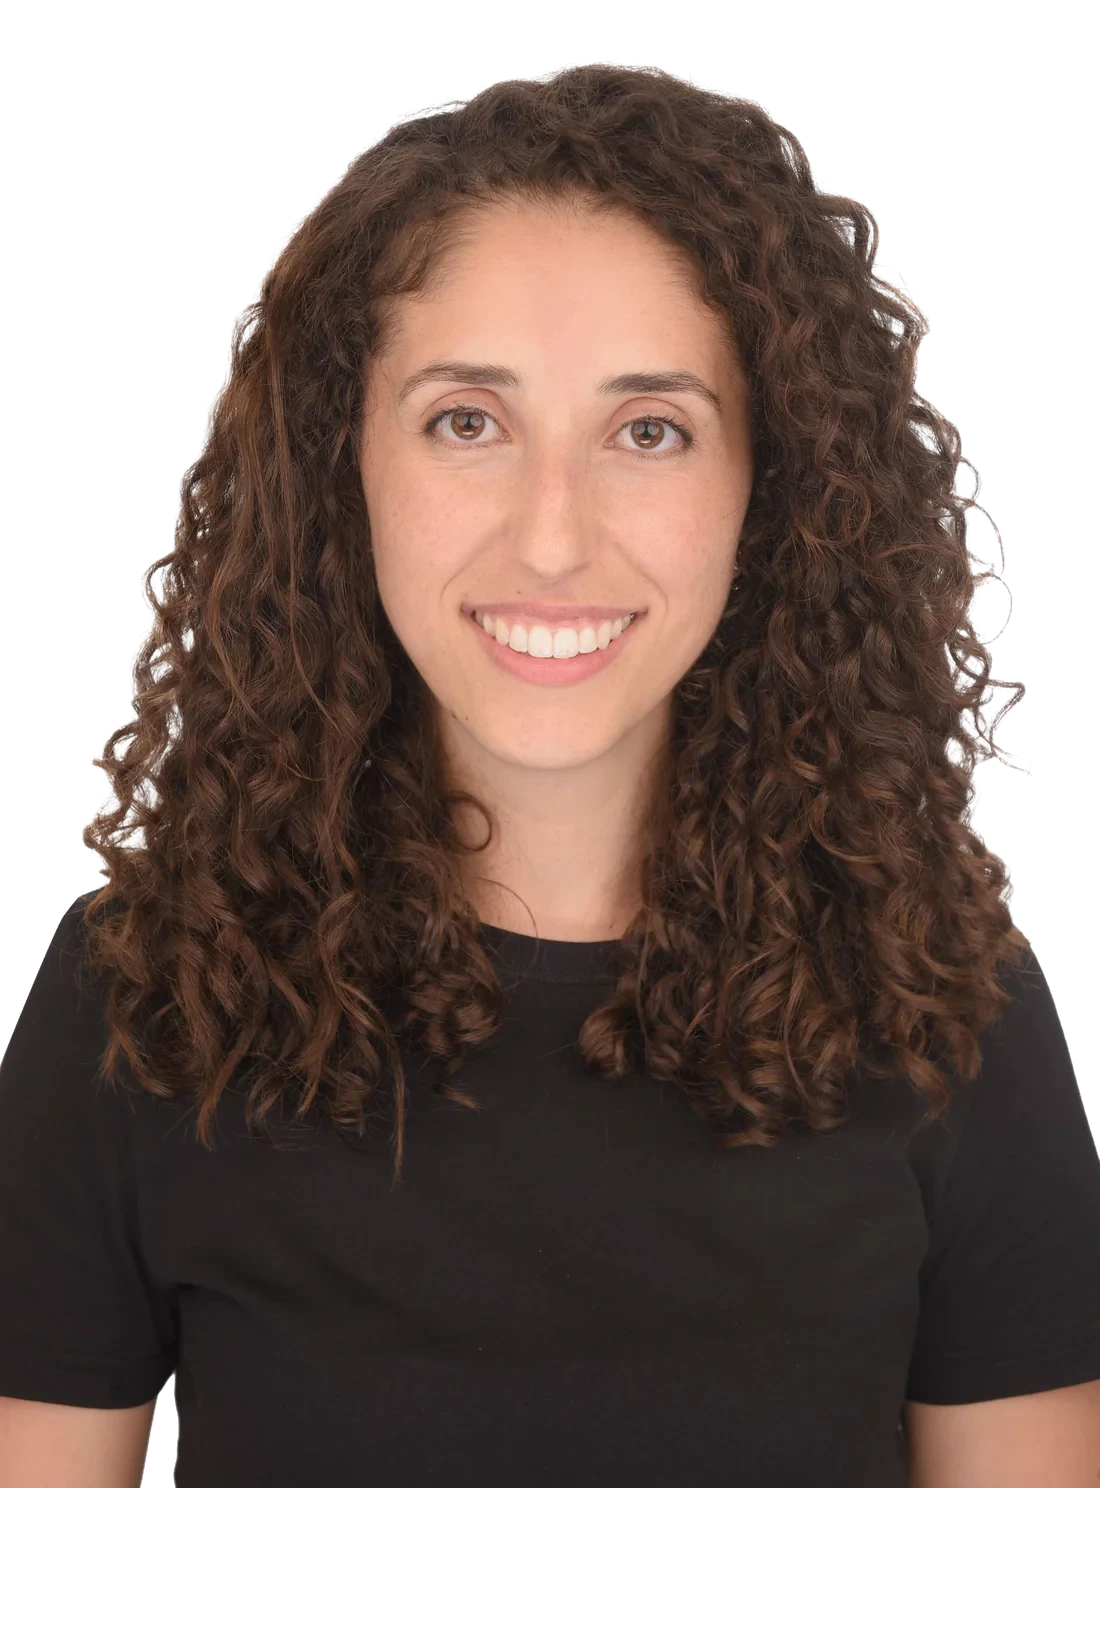
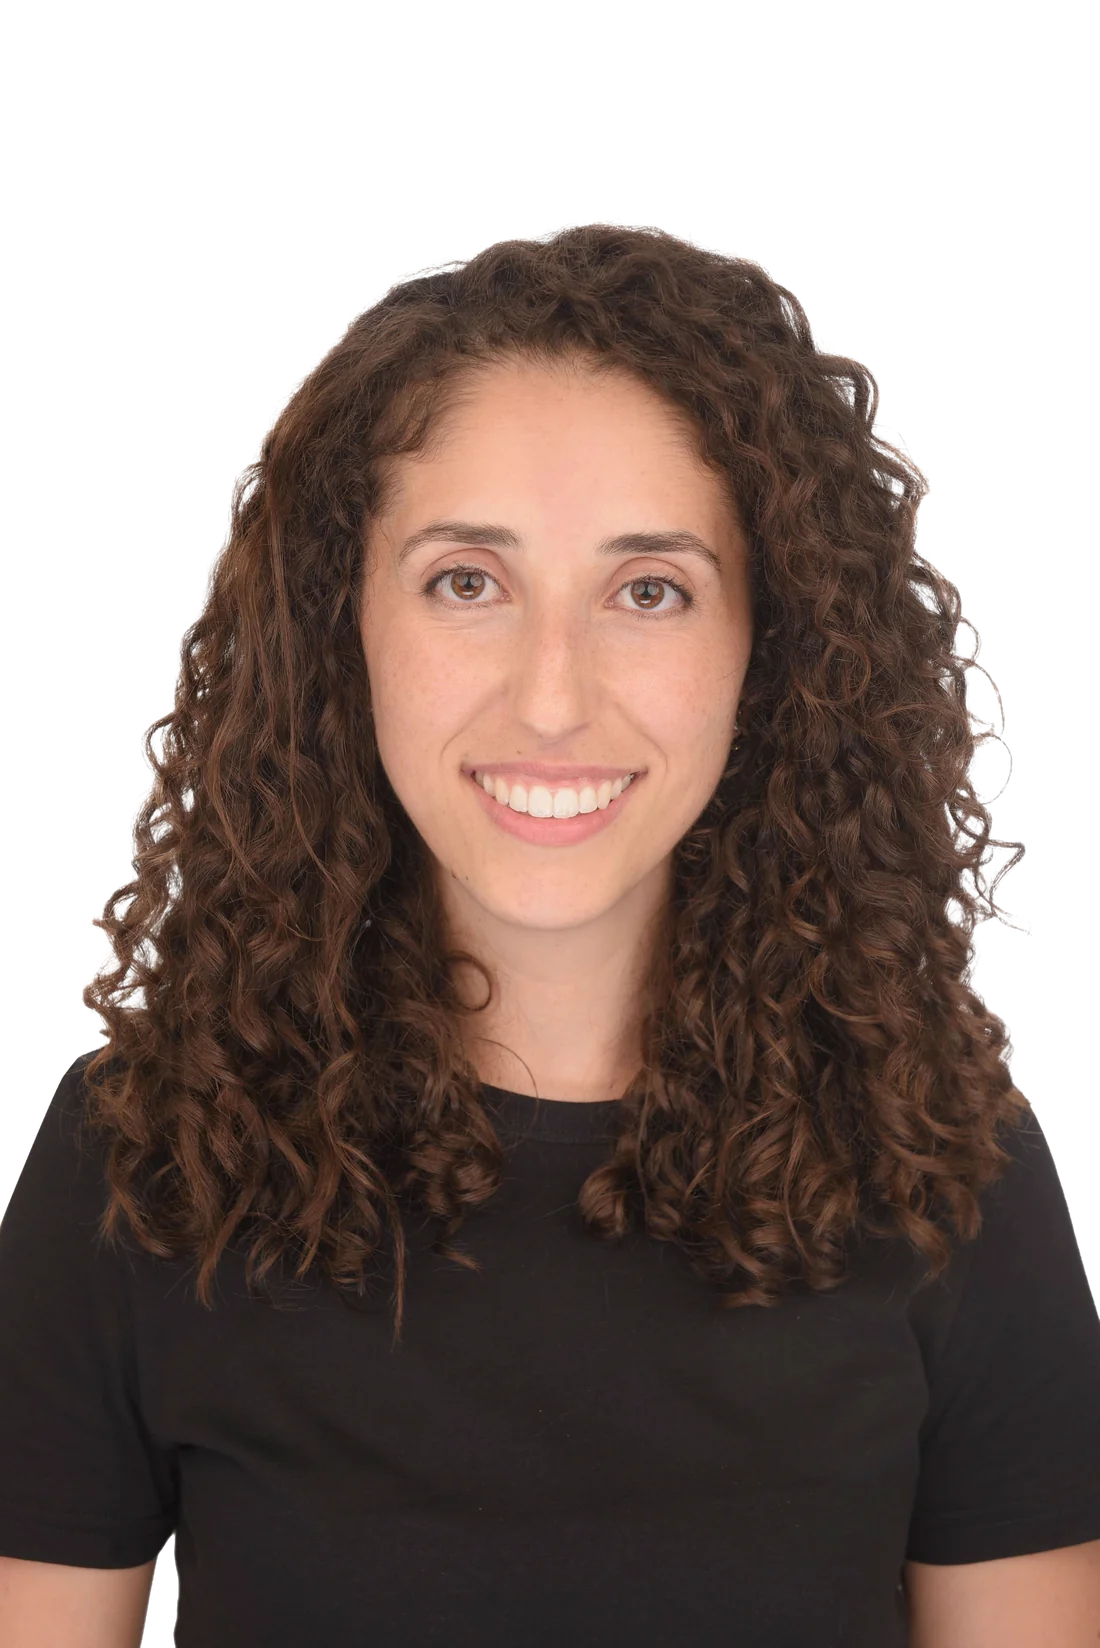
Use separate photo crop for Katherine's panel, keep card thumbnail original

diff --git a/src/data/content.ts b/src/data/content.ts
@@ -364,6 +364,7 @@ export interface TeamMember {
   name: string;
   title: string;
   photo: string;
+  panelPhoto?: string;
   bio: string | null;
   linkedin: string | null;
 }
@@ -382,6 +383,7 @@ export const team: TeamMember[] = [
     name: "Katherine Kamel",
     title: "Senior Associate",
     photo: "katherine",
+    panelPhoto: "katherine-panel",
     bio: "Katherine is a Senior Associate at Foundation Ventures.\n\nPrior to joining Foundation Ventures, Katherine worked as a Senior Consultant at ReD Associates based in Copenhagen, where she created growth strategies for clients across sectors in the U.S. and Europe. She also gained operational experience at Hive, a San Francisco-based AI startup, where she owned the end-to-end delivery of client engagements on the company's data platform.\n\nKatherine is a Dream VC Fellow and holds a Bachelor of Arts from the University of Chicago with Honors.",
     linkedin: "https://www.linkedin.com/in/katherine-kamel/",
   },
